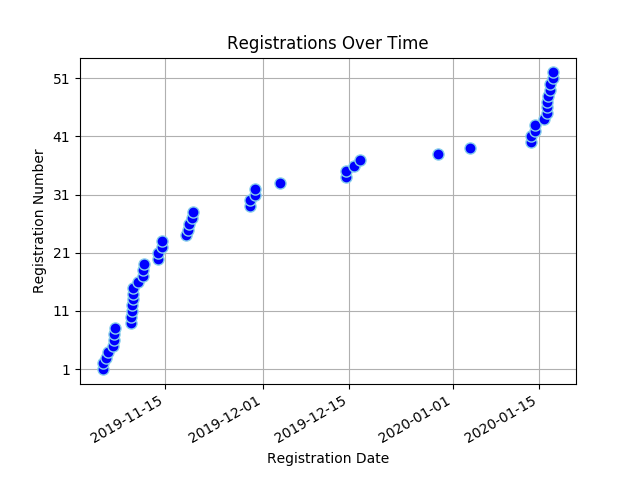
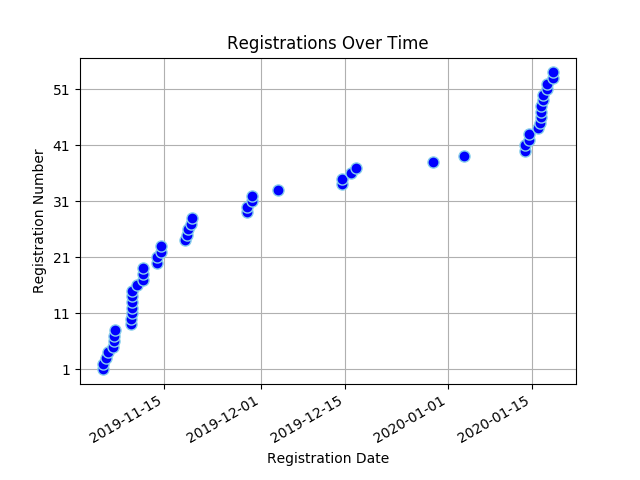
Registree stats backup on Sat Jan 18 13:29:27 SAST 2020

diff --git a/content/registrees/_index.md b/content/registrees/_index.md
@@ -3,9 +3,9 @@ title: Registration Stats
 draft: false
 ---
 
-<ul><li><strong>Number of Registrees</strong>: 52</li>
+<ul><li><strong>Number of Registrees</strong>: 54</li>
 
-<li><strong>Number of Clubs</strong>: 27</li>
+<li><strong>Number of Clubs</strong>: 28</li>
 
 <li><strong>Clubs With Most Attendees</strong>: Cape Of Good Hope, Midrand (6 registrees)</li>
 </ul><h2>Registrees</h2>
@@ -30,6 +30,6 @@ draft: false
         </tr>
     </thead>
     <tbody>
-<tr><td>Valencia Beukes</td><td>Kuilsriver</td></tr><tr><td>Jose Braga Borges</td><td>Malmesbury</td></tr><tr><td>Lynnette Virginia Christians</td><td>Cape Of Good Hope</td></tr><tr><td>Sharon Cottle</td><td>Groote Schuur</td></tr><tr><td>Desiree Du Toit</td><td>Ramsgate</td></tr><tr><td>Charles Flanagan</td><td>Tokai</td></tr><tr><td>Julie Flanagan</td><td>Tokai</td></tr><tr><td>Allison Georges</td><td>Cape Of Good Hope</td></tr><tr><td>Valerie Graham</td><td>Nelspruit</td></tr><tr><td>Michael Graham</td><td>Nelspruit</td></tr><tr><td>Wendy Higgins</td><td>Wilro Park</td></tr><tr><td>Jacqui Hocking</td><td>Midrand</td></tr><tr><td>Cliff Hocking</td><td>Midrand</td></tr><tr><td>Akinyemi Ismaila Tunde</td><td>Alberton</td></tr><tr><td>Dawid Jacobs</td><td>Durbanville</td></tr><tr><td>Charlotte Jubelin</td><td>Cape Of Good Hope</td></tr><tr><td>Zwaai Krüger</td><td>Sedgefield</td></tr><tr><td>Heather Lee</td><td>Cape Of Good Hope</td></tr><tr><td>Darrol Lee</td><td>Cape Of Good Hope</td></tr><tr><td>Lance Maytham</td><td>Bredasdorp</td></tr><tr><td>Mark Meltzer</td><td>The Wilds</td></tr><tr><td>Roy Michas</td><td>Midrand</td></tr><tr><td>Dawn Michas</td><td>Midrand</td></tr><tr><td>Patrick Mills</td><td>Centurion</td></tr><tr><td>Bernice Mills</td><td>Centurion</td></tr><tr><td>Michael Newlands</td><td>Port Alfred</td></tr><tr><td>Yvonne  Maureen Poyo</td><td>Cape Of Good Hope</td></tr><tr><td>Susanna Helena Smit</td><td>Centurion</td></tr><tr><td>Herman Smit</td><td>Swellendam</td></tr><tr><td>Berdine Smit</td><td>None</td></tr><tr><td>Bennie Smith</td><td>Wellington</td></tr><tr><td>Jeff Smith</td><td>Port Shepstone</td></tr><tr><td>Alex Tshikala</td><td>Athlone</td></tr><tr><td>Alistair Tuckett</td><td>Roodepoort Clearwater Cyber</td></tr><tr><td>Gail Tuckett</td><td>Roodepoort Clearwater Cyber</td></tr><tr><td>Rowan Tuckett</td><td>Roodepoort Clearwater Cyber</td></tr><tr><td>Yolandi Van der Schyf</td><td>Midrand</td></tr><tr><td>Keith Weston</td><td>Scottburgh</td></tr><tr><td>Barbara Weston</td><td>Scottburgh</td></tr><tr><td>Joyce Wilcocks</td><td>Pretoria Jakaranda</td></tr><tr><td>Richard Williams</td><td>None</td></tr><tr><td>Owolabi Williams Monzur</td><td>Badagry</td></tr><tr><td>Geila Wills</td><td>Cape Town</td></tr><tr><td>Judy Young</td><td>Durbanville</td></tr><tr><td>Sydney van Heerden</td><td>Wilro Park</td></tr><tr><td>Sandy van Heerden</td><td>Wilro Park</td></tr><tr><td>Lindie van Wyk</td><td>Pretoria Jakaranda</td></tr><tr><td>Vicki van Wyk</td><td>North Durban</td></tr><tr><td>Kim van Wyk</td><td>North Durban</td></tr><tr><td>Patricia van Wyk</td><td>Pretoria Jakaranda</td></tr><tr><td>Willie van Wyk</td><td>Midrand</td></tr><tr><td>Martha Maria van der Merwe</td><td>Malmesbury</td></tr>
+<tr><td>Valencia Beukes</td><td>Kuilsriver</td></tr><tr><td>Jose Braga Borges</td><td>Malmesbury</td></tr><tr><td>Lynnette Virginia Christians</td><td>Cape Of Good Hope</td></tr><tr><td>Sharon Cottle</td><td>Groote Schuur</td></tr><tr><td>Desiree Du Toit</td><td>Ramsgate</td></tr><tr><td>Charles Flanagan</td><td>Tokai</td></tr><tr><td>Julie Flanagan</td><td>Tokai</td></tr><tr><td>Allison Georges</td><td>Cape Of Good Hope</td></tr><tr><td>Valerie Graham</td><td>Nelspruit</td></tr><tr><td>Michael Graham</td><td>Nelspruit</td></tr><tr><td>Wendy Higgins</td><td>Wilro Park</td></tr><tr><td>Jacqui Hocking</td><td>Midrand</td></tr><tr><td>Cliff Hocking</td><td>Midrand</td></tr><tr><td>Akinyemi Ismaila Tunde</td><td>Alberton</td></tr><tr><td>Dawid Jacobs</td><td>Durbanville</td></tr><tr><td>Charlotte Jubelin</td><td>Cape Of Good Hope</td></tr><tr><td>Zwaai Krüger</td><td>Sedgefield</td></tr><tr><td>Heather Lee</td><td>Cape Of Good Hope</td></tr><tr><td>Darrol Lee</td><td>Cape Of Good Hope</td></tr><tr><td>Lance Maytham</td><td>Bredasdorp</td></tr><tr><td>David McCullough</td><td>Benoni Lakes</td></tr><tr><td>Gizella McCullough</td><td>Benoni Lakes</td></tr><tr><td>Mark Meltzer</td><td>The Wilds</td></tr><tr><td>Roy Michas</td><td>Midrand</td></tr><tr><td>Dawn Michas</td><td>Midrand</td></tr><tr><td>Patrick Mills</td><td>Centurion</td></tr><tr><td>Bernice Mills</td><td>Centurion</td></tr><tr><td>Michael Newlands</td><td>Port Alfred</td></tr><tr><td>Yvonne  Maureen Poyo</td><td>Cape Of Good Hope</td></tr><tr><td>Susanna Helena Smit</td><td>Centurion</td></tr><tr><td>Herman Smit</td><td>Swellendam</td></tr><tr><td>Berdine Smit</td><td>None</td></tr><tr><td>Bennie Smith</td><td>Wellington</td></tr><tr><td>Jeff Smith</td><td>Port Shepstone</td></tr><tr><td>Alex Tshikala</td><td>Athlone</td></tr><tr><td>Alistair Tuckett</td><td>Roodepoort Clearwater Cyber</td></tr><tr><td>Gail Tuckett</td><td>Roodepoort Clearwater Cyber</td></tr><tr><td>Rowan Tuckett</td><td>Roodepoort Clearwater Cyber</td></tr><tr><td>Yolandi Van der Schyf</td><td>Midrand</td></tr><tr><td>Keith Weston</td><td>Scottburgh</td></tr><tr><td>Barbara Weston</td><td>Scottburgh</td></tr><tr><td>Joyce Wilcocks</td><td>Pretoria Jakaranda</td></tr><tr><td>Richard Williams</td><td>None</td></tr><tr><td>Owolabi Williams Monzur</td><td>Badagry</td></tr><tr><td>Geila Wills</td><td>Cape Town</td></tr><tr><td>Judy Young</td><td>Durbanville</td></tr><tr><td>Sydney van Heerden</td><td>Wilro Park</td></tr><tr><td>Sandy van Heerden</td><td>Wilro Park</td></tr><tr><td>Lindie van Wyk</td><td>Pretoria Jakaranda</td></tr><tr><td>Vicki van Wyk</td><td>North Durban</td></tr><tr><td>Kim van Wyk</td><td>North Durban</td></tr><tr><td>Patricia van Wyk</td><td>Pretoria Jakaranda</td></tr><tr><td>Willie van Wyk</td><td>Midrand</td></tr><tr><td>Martha Maria van der Merwe</td><td>Malmesbury</td></tr>
 </tbody>
 </table>

diff --git a/content/full_stats/_index.md b/content/full_stats/_index.md
@@ -11,30 +11,30 @@
 <body>
 <h1 style="color: #000000;">Full Registration Stats</h1>
 <ul><li><strong>Number of Registrees</strong><ul>
-<li><strong>Total</strong>: 52</li>
-<li><strong>Lions</strong>: 27</li>
+<li><strong>Total</strong>: 54</li>
+<li><strong>Lions</strong>: 28</li>
 <li><strong>Partners In Service</strong>: 2</li>
 </ul>
-<li><strong>Number of Clubs</strong>: 27</li>
+<li><strong>Number of Clubs</strong>: 28</li>
 <li><strong>Clubs With Most Attendees</strong>: Cape Of Good Hope, Midrand (6 registrees)</li>
-<li><strong>Registrations</strong></li><ul><li><strong>Full</strong>: 51
+<li><strong>Registrations</strong></li><ul><li><strong>Full</strong>: 53
 <li><strong>Banquet</strong>: 1
 <li><strong>Convention</strong>: 0
 <li><strong>Theme</strong>: 1
 </ul><li><strong>Extra Items</strong></li><ul>
-<li><strong>Pins</strong>: 50
+<li><strong>Pins</strong>: 52
 </ul><li><strong>Extra Activities</strong></li><ul>
 <li><strong>MJF Lunch</strong>: 19
 <li><strong>PDG Breakfast</strong>: 13
 <li><strong>Sharks Board</strong>: 4
 <li><strong>Golf</strong>: 0
-<li><strong>Sight Seeing</strong>: 3
-<li><strong>Service Project</strong>: 12
+<li><strong>Sight Seeing</strong>: 5
+<li><strong>Service Project</strong>: 14
 <li><strong>Partner Program</strong>: 2
 </ul>
-<li><strong>Total Owed:</strong> R69235.00</li>
+<li><strong>Total Owed:</strong> R71915.00</li>
 <li><strong>Paid:</strong> R27225.00</li>
-<li><strong>Still Owed:</strong> R42010.00</li>
+<li><strong>Still Owed:</strong> R44690.00</li>
 <li><strong>Dietary Requirements</strong></li><ul>
 <li>Allergic to cheese and cream</li>
 <li>Halal</li>
@@ -292,6 +292,28 @@ StillOwed
 <td>1340.00</td>
 <td>1340.00</td>
 <td>0.00</td>
+</tr>
+
+    
+<tr style="background-color: yellow">
+<td>58</td>
+<td>David McCullough</td>
+<td>Benoni Lakes</td>
+<td>LP David McCullough</td>
+<td>1395.00</td>
+<td>0.00</td>
+<td>1395.00</td>
+</tr>
+
+    
+<tr style="background-color: yellow">
+<td>59</td>
+<td>Gizella McCullough</td>
+<td>Benoni Lakes</td>
+<td>Gizella McCullough</td>
+<td>1285.00</td>
+<td>0.00</td>
+<td>1285.00</td>
 </tr>
 
     
